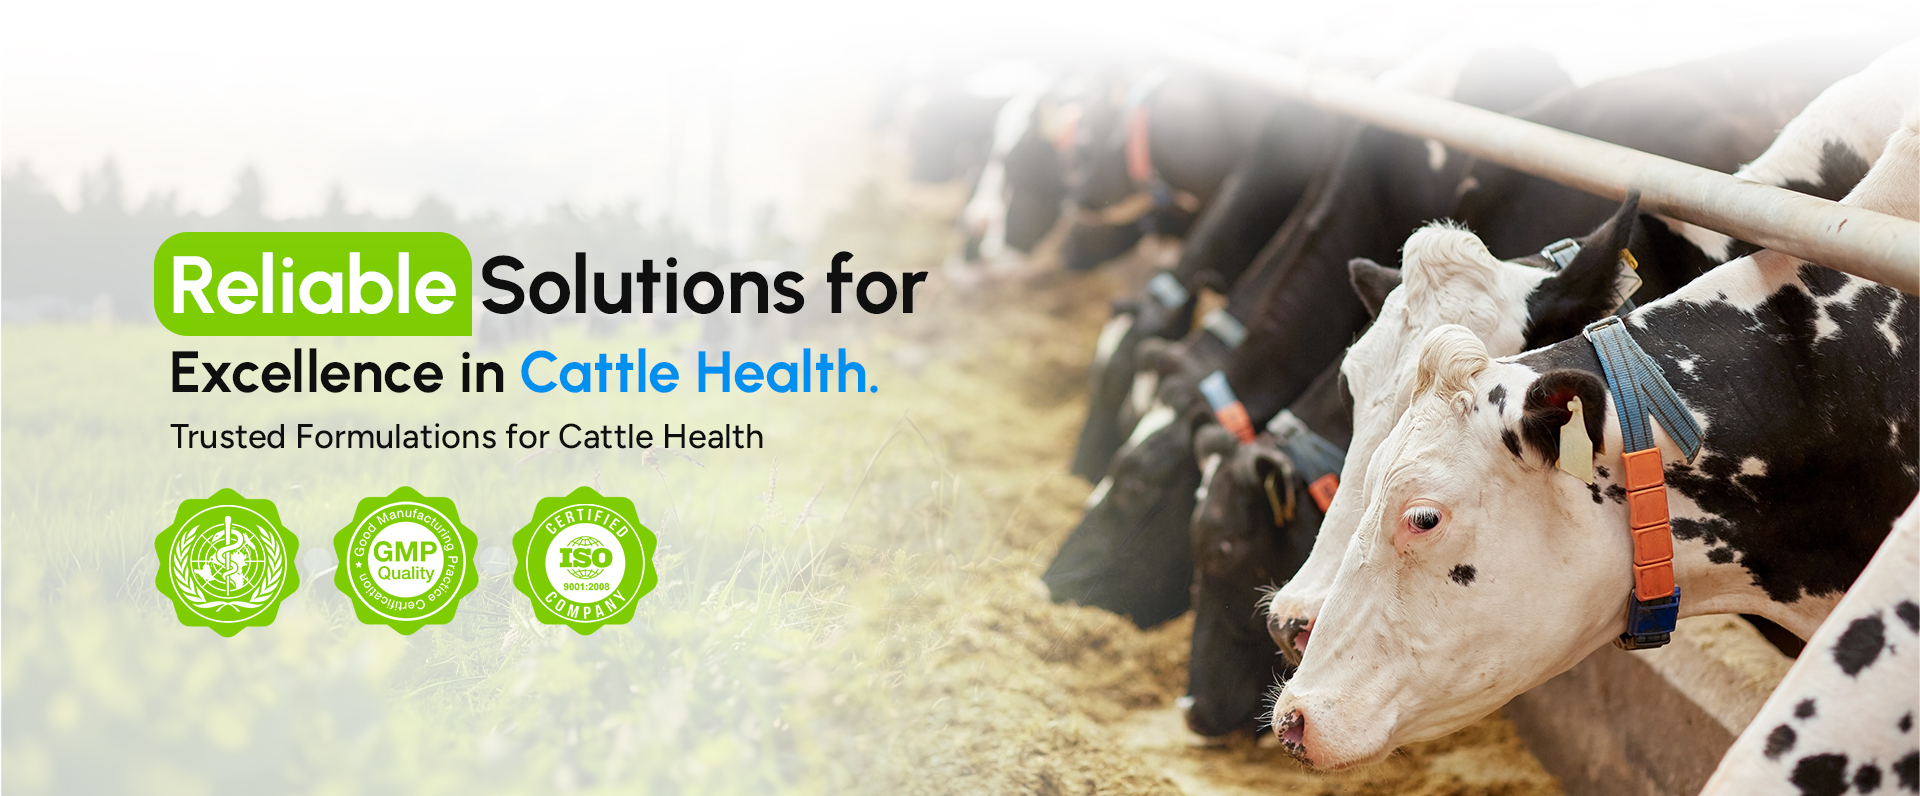
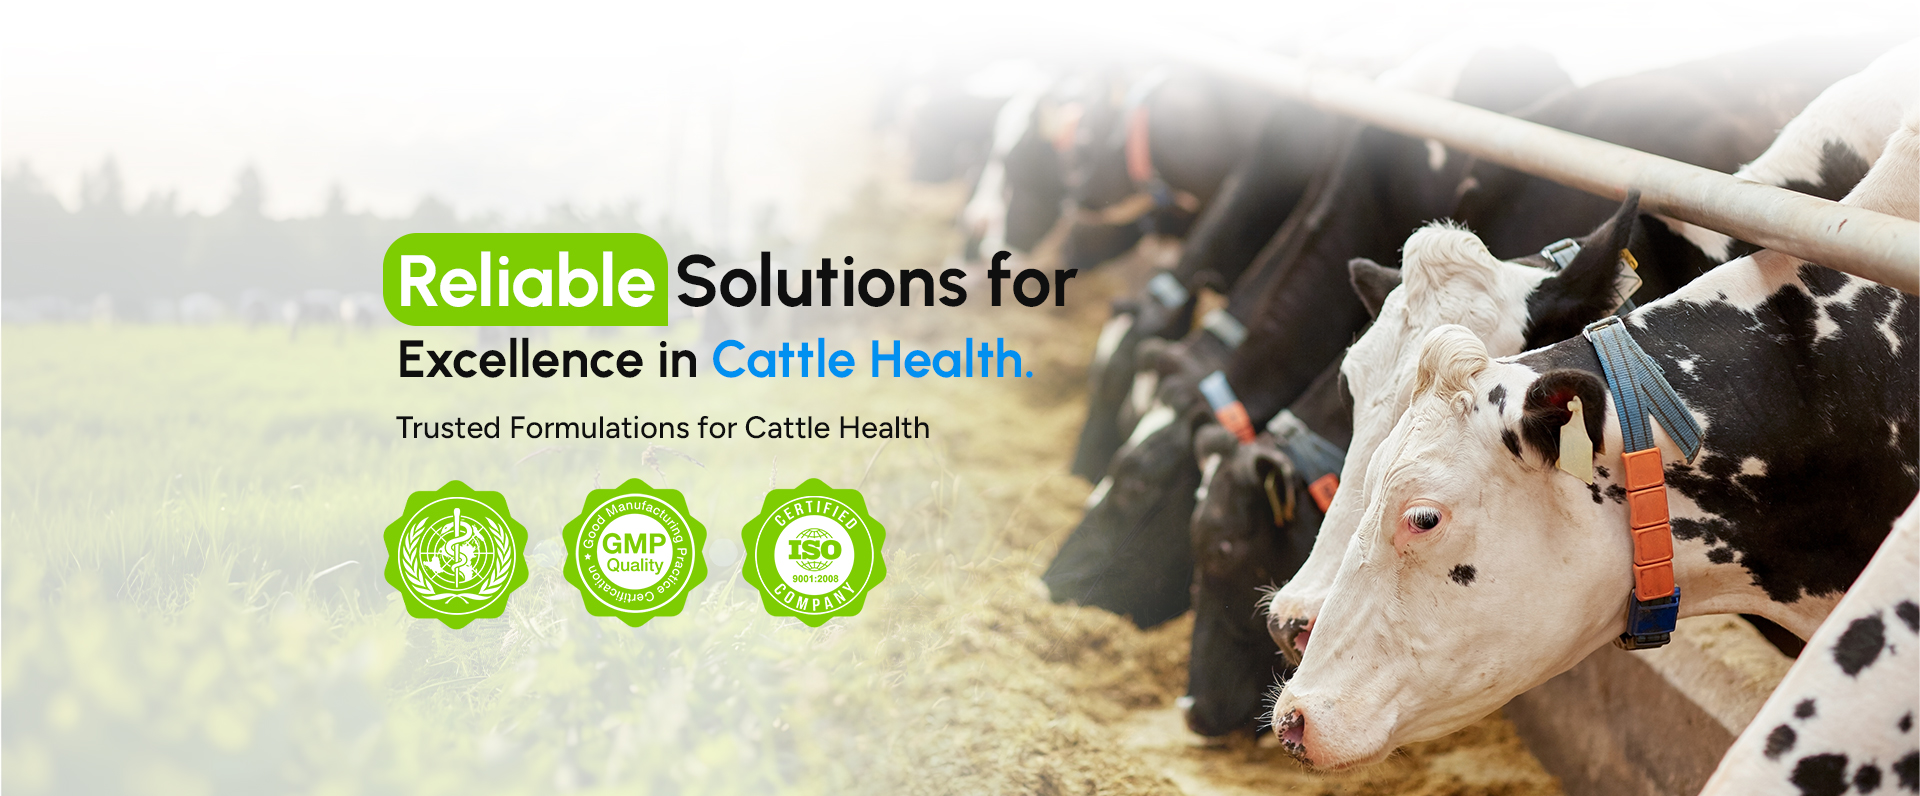
change

Changed region(s): [[0.0625, 0.2714, 0.5625, 0.5729], [0.0625, 0.603, 0.4688, 0.8141]]

diff --git a/assets/css/style.css b/assets/css/style.css
@@ -288,24 +288,9 @@ table p {
     -ms-transition: all 0.3s ease-out;
     -o-transition: all 0.3s ease-out;
 }
-.btn-theme:after {
-    background-color: #0190f0;
-    border-radius: 20px;
-    content: "";
-    height: 100%;
-    right: -3px;
-    position: absolute;
-    top: 3px;
-    width: 100%;
-    z-index: -2;
-    transition: all 0.3s ease-out;
-    -webkit-transition: all 0.3s ease-out;
-    -moz-transition: all 0.3s ease-out;
-    -ms-transition: all 0.3s ease-out;
-    -o-transition: all 0.3s ease-out;
-}
+
 .btn-theme:hover {
-  color: #721b65;
+  color: #fff;
   opacity: 0.8;
 }
 .btn-theme.btn-theme-color {
@@ -679,8 +664,8 @@ table p {
 -----------------------------------------------------------------------
 */
 .off-canvas-wrapper.offcanvas {
-  background-color: #1f1f1f;
-  width: 310px;
+    background-color: #e3e3e3;
+    width: 310px;
 }
 @media only screen and (max-width: 991px) {
   .off-canvas-wrapper.offcanvas {
@@ -708,28 +693,28 @@ table p {
   border: 2px solid #1f1f1f;
 }
 .off-canvas-wrapper .btn-menu-close {
-  display: block;
-  width: 100%;
-  height: 60px;
-  background-color: #721b65;
-  opacity: 1;
-  border-radius: 0;
-  color: #fff;
-  background-image: none;
-  padding: 0 20px;
-  line-height: 60px;
-  font-size: 16px;
-  font-weight: 700;
-  text-transform: uppercase;
-  font-weight: 600;
-  text-align: left;
-  border: none;
-  position: relative;
-  transition: all 0.3s ease-out;
-  -webkit-transition: all 0.3s ease-out;
-  -moz-transition: all 0.3s ease-out;
-  -ms-transition: all 0.3s ease-out;
-  -o-transition: all 0.3s ease-out;
+    display: block;
+    width: 100%;
+    height: 60px;
+    background-color: #34b7f1;
+    opacity: 1;
+    border-radius: 0;
+    color: #fff;
+    background-image: none;
+    padding: 0 20px;
+    line-height: 60px;
+    font-size: 16px;
+    font-weight: 700;
+    text-transform: uppercase;
+    font-weight: 600;
+    text-align: left;
+    border: none;
+    position: relative;
+    transition: all 0.3s ease-out;
+    -webkit-transition: all 0.3s ease-out;
+    -moz-transition: all 0.3s ease-out;
+    -ms-transition: all 0.3s ease-out;
+    -o-transition: all 0.3s ease-out;
 }
 .off-canvas-wrapper .btn-menu-close i {
   position: absolute;
@@ -741,6 +726,14 @@ table p {
 .off-canvas-wrapper .btn-menu-close:hover {
   color: #fff;
   background-color: #222;
+}
+.off-canvas-wrapper .btn-menu-close i {
+    position: absolute;
+    right: 21px;
+    top: 50%;
+    -webkit-transform: translate(0%, -50%);
+    transform: translate(0%, -50%);
+    font-size: 45px;
 }
 
 .offcanvas-backdrop,
@@ -767,7 +760,7 @@ table p {
 }
 
 .offcanvas-menu-nav li a {
-  color: #fff;
+  color: #000000;
   display: block;
   text-transform: capitalize;
   position: relative;
@@ -777,7 +770,7 @@ table p {
   line-height: 1;
 }
 .offcanvas-menu-nav li a:hover {
-  color: #fff;
+  color: #5f5f5f;
 }
 
 .offcanvas-menu-nav li ul {
@@ -7670,9 +7663,9 @@ table p {
 }
 
 .footer-main {
-  background: #474654;
   position: relative;
   padding: 104px 0 30px;
+  background-image: url(./image/Footer.jpg);
 }
 @media only screen and (max-width: 1199px) {
   .footer-main {
@@ -7856,24 +7849,9 @@ table p {
   -ms-transition: all 0.3s ease-out;
   -o-transition: all 0.3s ease-out;
 }
-.footer-main .social-icons a:after {
-    border-radius: 7px;
-    background-color: #0190f0;
-    position: absolute;
-    content: "";
-    height: 100%;
-    left: 0;
-    top: 0;
-    width: 100%;
-    z-index: -2;
-    transition: all 0.3s ease-out;
-    -webkit-transition: all 0.3s ease-out;
-    -moz-transition: all 0.3s ease-out;
-    -ms-transition: all 0.3s ease-out;
-    -o-transition: all 0.3s ease-out;
-}
-.footer-main .social-icons a:hover:before {
-  background-color: #7ecd02;
+
+.footer-main .social-icons a:hover:before, .footer-main .social-icons a:hover i {    
+    transform: translateY(-5px);
 }
 .footer-main .social-icons a:hover:after {
   left: 2px;
@@ -7956,10 +7934,10 @@ table p {
 }
 
 .footer-bottom {
-  background: #474654;
-  padding: 0 0;
-  position: relative;
-  color: #999;
+    background: #001b2e;
+    padding: 0 0;
+    position: relative;
+    color: #999;
 }
 .footer-bottom .footer-bottom-content {
   -webkit-box-align: center;
@@ -7984,7 +7962,7 @@ table p {
   }
 }
 .footer-bottom .copyright {
-  color: #a1a1a1;
+  color: #fff;
   font-size: 16px;
   margin-bottom: 0;
   line-height: 28px;
@@ -8190,7 +8168,7 @@ form {
 
 form input,
 form textarea {
-  background: transparent;
+  background: #fff;
   display: block;
   border: 0;
   border-bottom: 1px solid #29bbf2 !important;
@@ -8243,5 +8221,15 @@ button#slide-btn {
     padding: 10px 25px;
     border-radius: 10px;
     color: #fff;
+}
+@media (min-width:950px) {
+  .header-align-end {
+    display: none;
+}
+}
+.header-action-area i {
+    color: #ffffff !important;
+    background-color: #7ecd02 !important;
+    padding: 3px !important;
 }
 

diff --git a/index.html b/index.html
@@ -122,21 +122,7 @@
             </div>
             <div class="header-align-end">
               <div class="header-action-area">               
-                <div class="shopping-account">
-                  <a class="shopping-account-btn" href="https://www.facebook.com/unirayvet/">
-                   <i class="fa-brands fa-facebook" style="color: #ffffff;"></i>
-                  </a>
-                </div>
-                <div class="shopping-wishlist">
-                  <a class="shopping-wishlist-btn" href="https://www.instagram.com/unirayvet/">
-                   <i class="fa-brands fa-instagram" style="color: #ffffff;"></i>
-                  </a>
-                </div>
-                 <div class="shopping-wishlist">
-                  <a class="shopping-wishlist-btn" href="https://www.youtube.com/@unirayvet">
-                  <i class="fa-brands fa-youtube" style="color: #ffffff;"></i>
-                  </a>
-                </div>           
+                    
                 <button class="btn-menu" type="button" data-bs-toggle="offcanvas" data-bs-target="#AsideOffcanvasMenu" aria-controls="AsideOffcanvasMenu">
                   <i class="pe-7s-menu"></i>
                 </button>
@@ -242,7 +228,7 @@
 
       <!-- Banner 1 for Large Screens -->
       <div class="swiper-slide d-none d-lg-block">
-        <div class="slider-content-area" data-bg-img="assets/img/Banner-1.jpg"></div>
+        <div class="slider-content-area" data-bg-img="assets/img/Product-Banner.jpg"></div>
       </div>
 
       <!-- Banner 1 for Small Screens -->
@@ -252,7 +238,8 @@
 
       <!-- Banner 2 (Common for all screen sizes) -->
      <div class="swiper-slide d-none d-lg-block">
-        <div class="slider-content-area" data-bg-img="assets/img/Product-Banner.jpg"></div>
+        
+        <div class="slider-content-area" data-bg-img="assets/img/Banner-1.jpg"></div>
       </div>
        <!-- Banner 1 for Small Screens -->
       <div class="swiper-slide d-block d-lg-none">
@@ -871,7 +858,7 @@ A Veterinary Third Party Manufacturing company has a specialty in manufacturing 
   <aside class="off-canvas-wrapper offcanvas offcanvas-start" tabindex="-1" id="AsideOffcanvasMenu" aria-labelledby="offcanvasExampleLabel">
     <div class="offcanvas-header">
       <h1 class="d-none" id="offcanvasExampleLabel">Aside Menu</h1>
-      <button class="btn-menu-close" data-bs-dismiss="offcanvas" aria-label="Close"> <i class="fa fa-chevron-left"></i></button>
+      <button class="btn-menu-close" data-bs-dismiss="offcanvas" aria-label="Close"> <i class="fas fa-window-close"></i></button>
     </div>
     <div class="offcanvas-body">
       <nav id="offcanvasNav" class="offcanvas-menu-nav">
